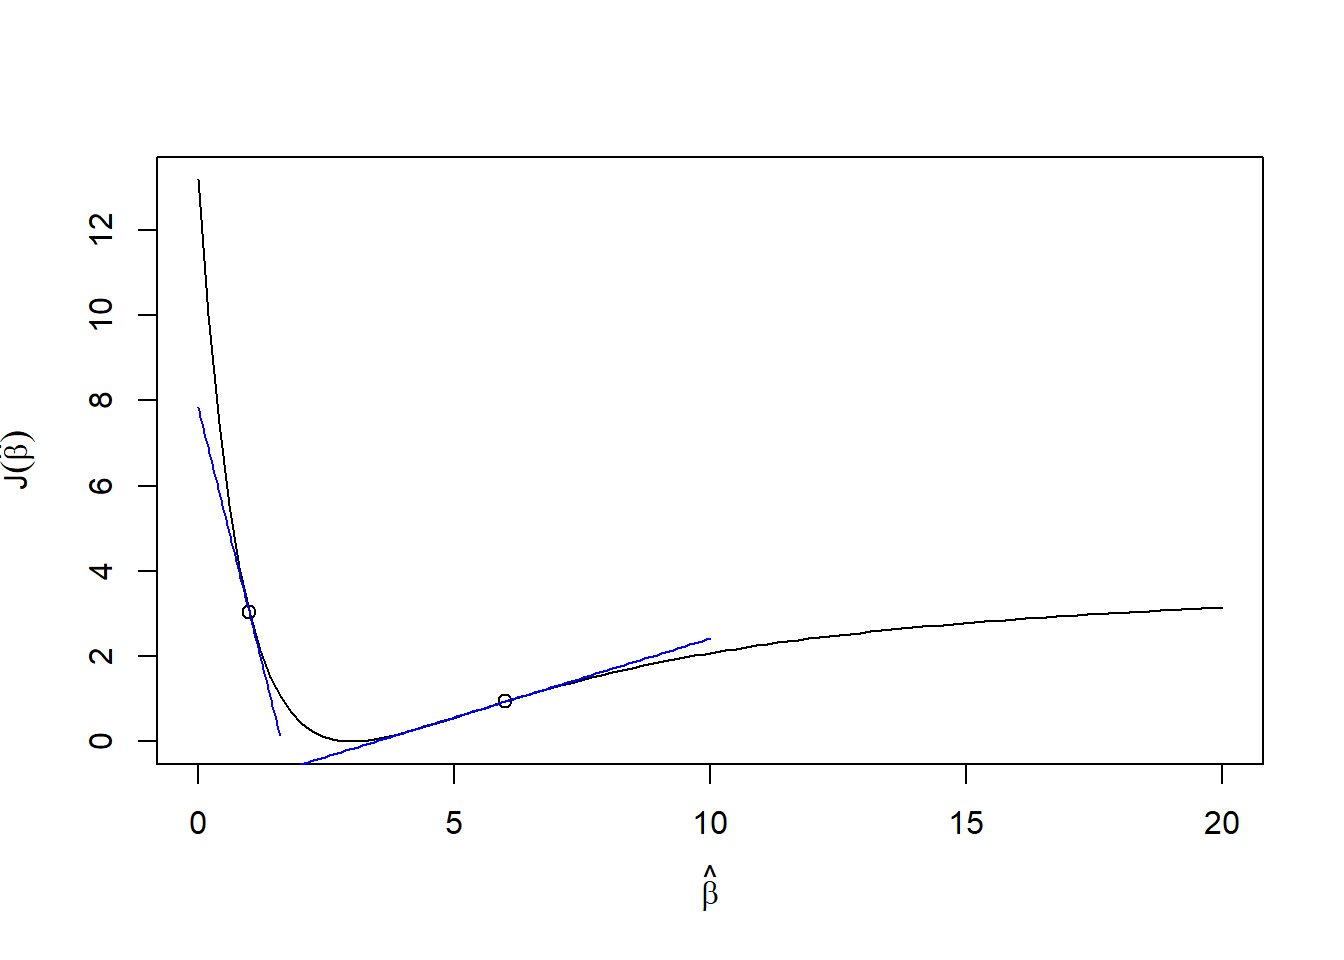
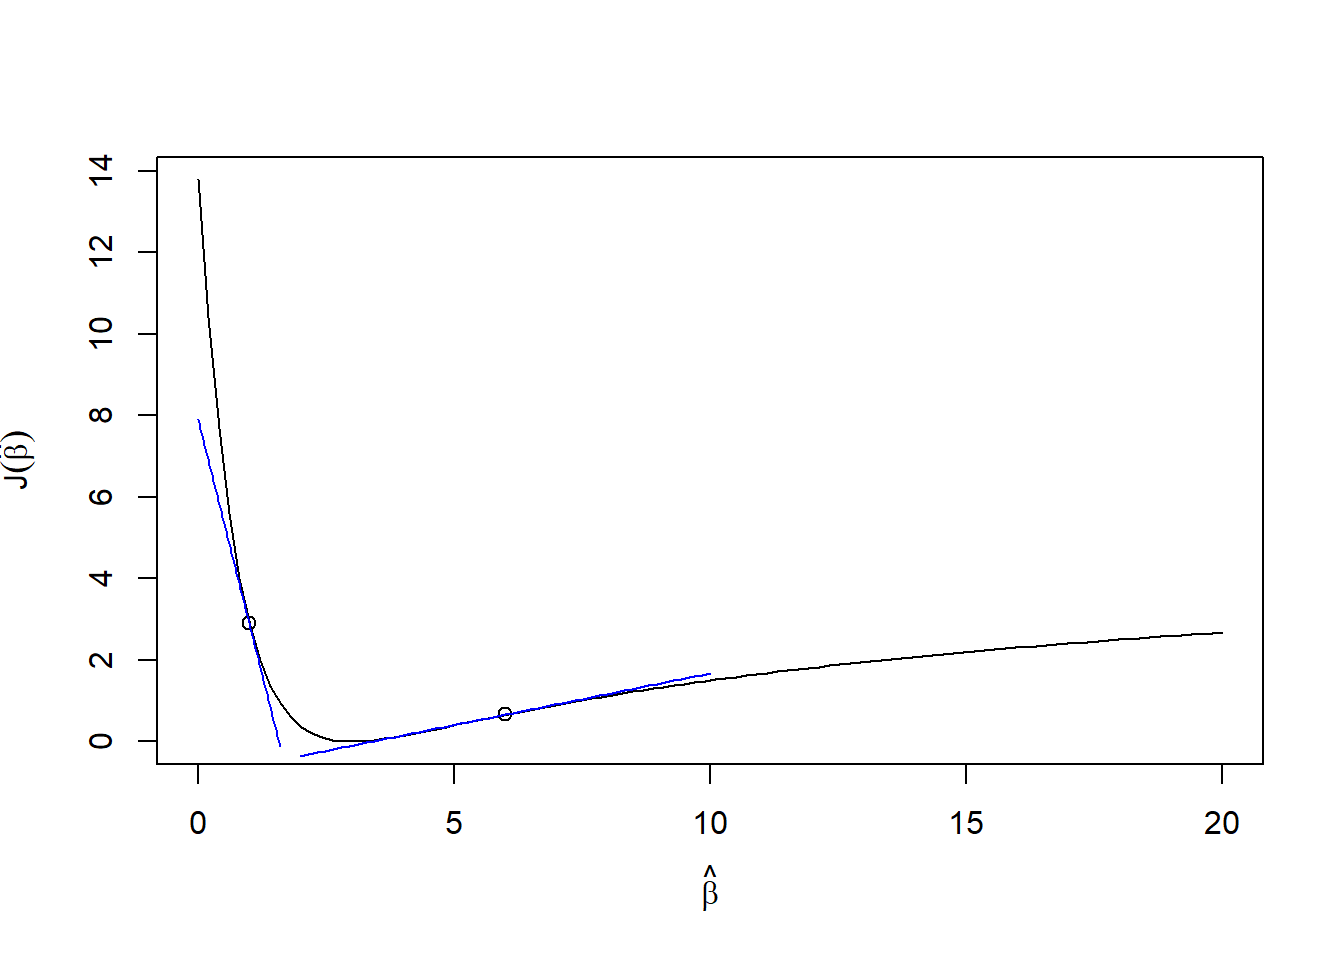
fix beta=1

diff --git a/L4-calculus-review.html b/L4-calculus-review.html
@@ -7,7 +7,7 @@
 <meta name="viewport" content="width=device-width, initial-scale=1.0, user-scalable=yes">
 
 <meta name="author" content="Greg Ridgeway">
-<meta name="dcterms.date" content="2025-02-10">
+<meta name="dcterms.date" content="2025-02-13">
 
 <title>Differential calculus review</title>
 <style>
@@ -162,7 +162,7 @@ window.Quarto = {
     <div>
     <div class="quarto-title-meta-heading">Published</div>
     <div class="quarto-title-meta-contents">
-      <p class="date">February 10, 2025</p>
+      <p class="date">February 13, 2025</p>
     </div>
   </div>
   
@@ -176,6 +176,9 @@ window.Quarto = {
 
 <!-- In terminal -->
 <!-- quarto render L4-calculus-review.qmd -->
+<!-- git commit L4* -m "commit message" -->
+<!-- git status -->
+<!-- git push -->
 <section id="properties-of-derivatives" class="level1" data-number="1">
 <h1 data-number="1"><span class="header-section-number">1</span> Properties of derivatives</h1>
 <p>The derivative measures the slope of the line tangent to the curve <span class="math inline">\(f(x)\)</span> at <span class="math inline">\(x\)</span>. There are a lot of online derivative calculators that will grind out the derivatives should you need to compute one. Nevertheless, it will be valuable to have some of their basic properties on hand. We will use derivatives a lot when optimizing machine learning methods.</p>
@@ -354,7 +357,7 @@ Figure&nbsp;1: An example <span class="math inline">\(J(\beta)\)</span> showing 
 </div>
 </div>
 </div>
-<p>Consider <a href="#fig-curveWithSlopes" class="quarto-xref">Figure&nbsp;1</a>. Here we have a loss function that has its minimum around <span class="math inline">\(\hat\beta=3\)</span> (as it should since we simulated it to be so). If we evaluate the derivative at <span class="math inline">\(\hat\beta=6\)</span>, then we get a positive slope, telling us that the optimal <span class="math inline">\(\beta\)</span> is smaller than 6. If we evaluate the derivative at <span class="math inline">\(\hat\beta=2\)</span>, then we get a negative slope, telling us that the optimal <span class="math inline">\(\hat\beta\)</span> is larger.</p>
+<p>Consider <a href="#fig-curveWithSlopes" class="quarto-xref">Figure&nbsp;1</a>. Here we have a loss function that has its minimum around <span class="math inline">\(\hat\beta=3\)</span> (as it should since we simulated it to be so). If we evaluate the derivative at <span class="math inline">\(\hat\beta=6\)</span>, then we get a positive slope, telling us that the optimal <span class="math inline">\(\beta\)</span> is smaller than 6. If we evaluate the derivative at <span class="math inline">\(\hat\beta=1\)</span>, then we get a negative slope, telling us that the optimal <span class="math inline">\(\hat\beta\)</span> is larger.</p>
 <p>This suggests an optimization process that iteratively adjusts our guess for the optimal <span class="math inline">\(\hat\beta\)</span> as <span class="math display">\[
     \hat\beta \leftarrow \hat\beta - \lambda J'(\hat\beta)
 \]</span> where <span class="math inline">\(\lambda\)</span> is a small value representing a “step size” or a “learning rate”.</p>
